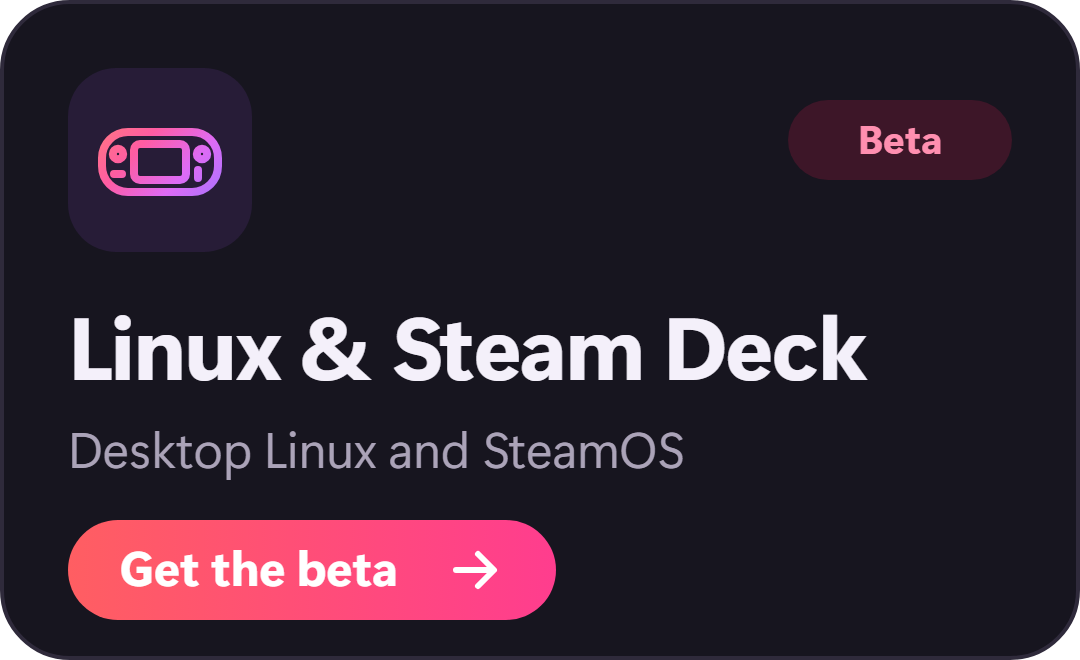
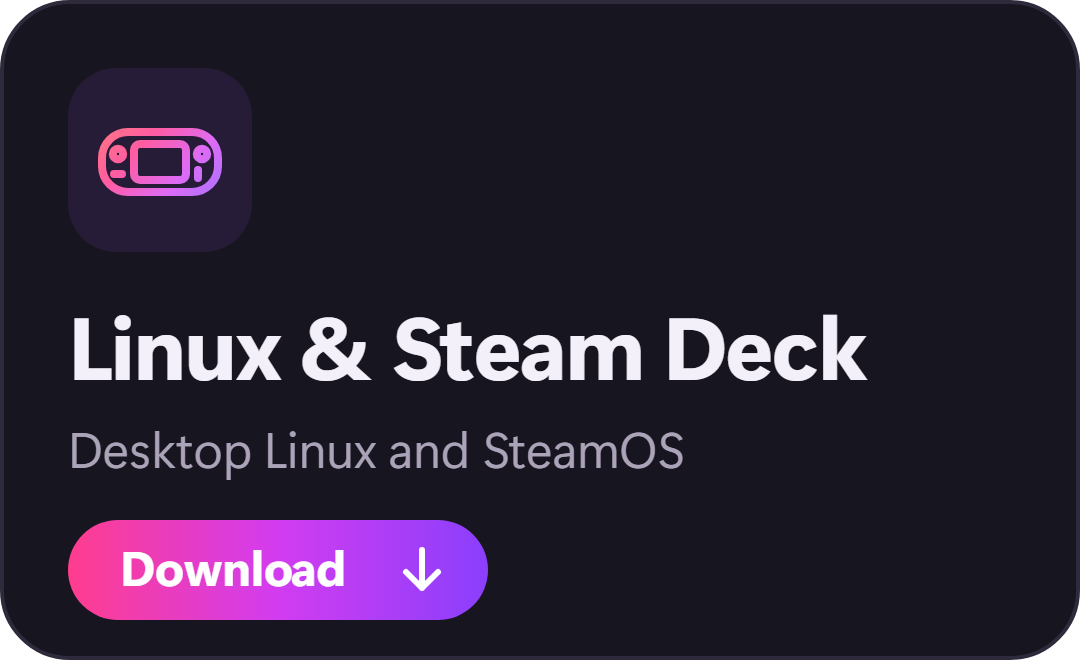
Release pages: 1.4.0's Linux card is a Download card; the beta pages keep the beta card
get-linux-{light,dark}.png are now the stable card (Download, no Beta badge), rendered from docs/assets/get-linux-*.svg;
the old beta cards are get-linux-beta-*.png, used by the linux-beta pages. release_pages.py picks the card and its alt
text by tag ("Download for Linux and the Steam Deck" from 1.4.0). make_readme_art.py draws Linux as a stable card too,
so a rerun keeps the README's hand-updated Linux card (its 30 SVGs come out byte-identical).

Changed region(s): [[0.0611, 0.7879, 0.5194, 0.9394], [0.7333, 0.1515, 0.9472, 0.2727]]

diff --git a/tools/release_pages.py b/tools/release_pages.py
@@ -138,14 +138,15 @@ def assets_of(body):
 def downloads(tag, names):
     cards, extra = [], []
     order = lambda n: 0 if 'Windows' in n else 1 if 'Mac' in n else 2 if n.endswith('.AppImage') else 3   # Windows, Mac, then Linux's AppImage first
+    lx, lalt = ('linux-beta', 'Get the Linux and Steam Deck beta') if 'linux-beta' in tag else ('linux', 'Download for Linux and the Steam Deck')
     for n in sorted(names, key=order):
         url = f'{REPO}/releases/download/{tag}/{n}'
         if n == 'Pokopia-Native-for-Windows.zip': cards.append(card('windows', url, 'Download for Windows'))
         elif n == 'Pokopia-Native-for-Mac.zip': cards.append(card('mac', url, 'Download for Mac and iPhone'))
-        elif n.endswith('.AppImage') and not any('get-linux' in c for c in cards): cards.append(card('linux', url, 'Get the Linux and Steam Deck beta (AppImage)'))
+        elif n.endswith('.AppImage') and not any('get-linux' in c for c in cards): cards.append(card(lx, url, f'{lalt} (AppImage)'))
         elif 'Linux' in n and n.endswith('.zip'):
             if any('get-linux' in c for c in cards): extra.append(f"Prefer a terminal, or the AppImage won't start? Use [`{n}`]({url}) instead.")
-            else: cards.append(card('linux', url, 'Get the Linux and Steam Deck beta'))
+            else: cards.append(card(lx, url, lalt))
         elif 'Android' in n and n.endswith('.zip'): cards.append(card('android', url, 'Get the Android beta'))
         elif n.endswith('.apk'): extra.append(f'**Check your phone first:** the [device test]({url}) (`{n}`) says in seconds whether it can run the game.')
         else: extra.append(f'Also here: [`{n}`]({url})')

diff --git a/tools/make_readme_art.py b/tools/make_readme_art.py
@@ -119,7 +119,7 @@ def hero_phone(m):
 CARDS = {
     'windows': ('pc', 'Windows', 'Windows 10 and 11, 64-bit', False),
     'mac': ('mac', 'Mac &amp; iPhone', 'Apple silicon, plus the iPhone app', False),
-    'linux': ('deck', 'Linux &amp; Steam Deck', 'Desktop Linux and SteamOS', True),
+    'linux': ('deck', 'Linux &amp; Steam Deck', 'Desktop Linux and SteamOS', False),   # out of beta from 1.4.0
     'android': ('droid', 'Android', 'Phones and handhelds, made on a PC', True),
 }
 

diff --git a/docs/releases/v1.4.0.md b/docs/releases/v1.4.0.md
@@ -4,7 +4,7 @@
   <a href="https://github.com/xFractals/pokopia-native/releases/download/v1.4.0/Pokopia-Native-for-Windows.zip"><picture><source media="(prefers-color-scheme: dark)" srcset="https://raw.githubusercontent.com/xFractals/pokopia-native/main/docs/assets/release/get-windows-dark.png"><img src="https://raw.githubusercontent.com/xFractals/pokopia-native/main/docs/assets/release/get-windows-light.png" width="404" alt="Download for Windows"></picture></a>
   <a href="https://github.com/xFractals/pokopia-native/releases/download/v1.4.0/Pokopia-Native-for-Mac.zip"><picture><source media="(prefers-color-scheme: dark)" srcset="https://raw.githubusercontent.com/xFractals/pokopia-native/main/docs/assets/release/get-mac-dark.png"><img src="https://raw.githubusercontent.com/xFractals/pokopia-native/main/docs/assets/release/get-mac-light.png" width="404" alt="Download for Mac and iPhone"></picture></a>
   <br>
-  <a href="https://github.com/xFractals/pokopia-native/releases/download/v1.4.0/Pokopia-Native-Builder-1.4.0-x86_64.AppImage"><picture><source media="(prefers-color-scheme: dark)" srcset="https://raw.githubusercontent.com/xFractals/pokopia-native/main/docs/assets/release/get-linux-dark.png"><img src="https://raw.githubusercontent.com/xFractals/pokopia-native/main/docs/assets/release/get-linux-light.png" width="404" alt="Get the Linux and Steam Deck beta (AppImage)"></picture></a>
+  <a href="https://github.com/xFractals/pokopia-native/releases/download/v1.4.0/Pokopia-Native-Builder-1.4.0-x86_64.AppImage"><picture><source media="(prefers-color-scheme: dark)" srcset="https://raw.githubusercontent.com/xFractals/pokopia-native/main/docs/assets/release/get-linux-dark.png"><img src="https://raw.githubusercontent.com/xFractals/pokopia-native/main/docs/assets/release/get-linux-light.png" width="404" alt="Download for Linux and the Steam Deck (AppImage)"></picture></a>
 </p>
 
 Prefer a terminal, or the AppImage won't start? Use [`Pokopia-Native-for-Linux.zip`](https://github.com/xFractals/pokopia-native/releases/download/v1.4.0/Pokopia-Native-for-Linux.zip) instead.

diff --git a/docs/releases/v1.3.3-linux-beta.5.md b/docs/releases/v1.3.3-linux-beta.5.md
@@ -1,7 +1,7 @@
 **No more sparkles on 16:10 screens, a steadier frame rate on integrated graphics, a builder that looks right, and a report tool that finds your build by itself.**
 
 <p align="center">
-  <a href="https://github.com/xFractals/pokopia-native/releases/download/v1.3.3-linux-beta.5/Pokopia-Native-Builder-1.3.3-beta.5-x86_64.AppImage"><picture><source media="(prefers-color-scheme: dark)" srcset="https://raw.githubusercontent.com/xFractals/pokopia-native/main/docs/assets/release/get-linux-dark.png"><img src="https://raw.githubusercontent.com/xFractals/pokopia-native/main/docs/assets/release/get-linux-light.png" width="404" alt="Get the Linux and Steam Deck beta (AppImage)"></picture></a>
+  <a href="https://github.com/xFractals/pokopia-native/releases/download/v1.3.3-linux-beta.5/Pokopia-Native-Builder-1.3.3-beta.5-x86_64.AppImage"><picture><source media="(prefers-color-scheme: dark)" srcset="https://raw.githubusercontent.com/xFractals/pokopia-native/main/docs/assets/release/get-linux-beta-dark.png"><img src="https://raw.githubusercontent.com/xFractals/pokopia-native/main/docs/assets/release/get-linux-beta-light.png" width="404" alt="Get the Linux and Steam Deck beta (AppImage)"></picture></a>
 </p>
 
 Prefer a terminal, or the AppImage won't start? Use [`Pokopia-Native-for-Linux-beta.zip`](https://github.com/xFractals/pokopia-native/releases/download/v1.3.3-linux-beta.5/Pokopia-Native-for-Linux-beta.zip) instead.

diff --git a/docs/releases/v1.2.6-linux-beta.md b/docs/releases/v1.2.6-linux-beta.md
@@ -1,7 +1,7 @@
 **Pokopia Native on Linux and the Steam Deck, as an open beta.**
 
 <p align="center">
-  <a href="https://github.com/xFractals/pokopia-native/releases/download/v1.2.6-linux-beta/Pokopia-Native-Builder-1.2.6-beta-x86_64.AppImage"><picture><source media="(prefers-color-scheme: dark)" srcset="https://raw.githubusercontent.com/xFractals/pokopia-native/main/docs/assets/release/get-linux-dark.png"><img src="https://raw.githubusercontent.com/xFractals/pokopia-native/main/docs/assets/release/get-linux-light.png" width="404" alt="Get the Linux and Steam Deck beta (AppImage)"></picture></a>
+  <a href="https://github.com/xFractals/pokopia-native/releases/download/v1.2.6-linux-beta/Pokopia-Native-Builder-1.2.6-beta-x86_64.AppImage"><picture><source media="(prefers-color-scheme: dark)" srcset="https://raw.githubusercontent.com/xFractals/pokopia-native/main/docs/assets/release/get-linux-beta-dark.png"><img src="https://raw.githubusercontent.com/xFractals/pokopia-native/main/docs/assets/release/get-linux-beta-light.png" width="404" alt="Get the Linux and Steam Deck beta (AppImage)"></picture></a>
 </p>
 
 Prefer a terminal, or the AppImage won't start? Use [`Pokopia-Native-for-Linux-beta.zip`](https://github.com/xFractals/pokopia-native/releases/download/v1.2.6-linux-beta/Pokopia-Native-for-Linux-beta.zip) instead.

diff --git a/docs/releases/v1.3.0-linux-beta.2.md b/docs/releases/v1.3.0-linux-beta.2.md
@@ -1,7 +1,7 @@
 **Starts on the Steam Deck, Fedora, Arch and more.**
 
 <p align="center">
-  <a href="https://github.com/xFractals/pokopia-native/releases/download/v1.3.0-linux-beta.2/Pokopia-Native-Builder-1.3.0-beta.2-x86_64.AppImage"><picture><source media="(prefers-color-scheme: dark)" srcset="https://raw.githubusercontent.com/xFractals/pokopia-native/main/docs/assets/release/get-linux-dark.png"><img src="https://raw.githubusercontent.com/xFractals/pokopia-native/main/docs/assets/release/get-linux-light.png" width="404" alt="Get the Linux and Steam Deck beta (AppImage)"></picture></a>
+  <a href="https://github.com/xFractals/pokopia-native/releases/download/v1.3.0-linux-beta.2/Pokopia-Native-Builder-1.3.0-beta.2-x86_64.AppImage"><picture><source media="(prefers-color-scheme: dark)" srcset="https://raw.githubusercontent.com/xFractals/pokopia-native/main/docs/assets/release/get-linux-beta-dark.png"><img src="https://raw.githubusercontent.com/xFractals/pokopia-native/main/docs/assets/release/get-linux-beta-light.png" width="404" alt="Get the Linux and Steam Deck beta (AppImage)"></picture></a>
 </p>
 
 Prefer a terminal, or the AppImage won't start? Use [`Pokopia-Native-for-Linux-beta.zip`](https://github.com/xFractals/pokopia-native/releases/download/v1.3.0-linux-beta.2/Pokopia-Native-for-Linux-beta.zip) instead.

diff --git a/docs/releases/v1.3.0-linux-beta.md b/docs/releases/v1.3.0-linux-beta.md
@@ -1,7 +1,7 @@
 **Higher resolution and settings in the game, on Linux.**
 
 <p align="center">
-  <a href="https://github.com/xFractals/pokopia-native/releases/download/v1.3.0-linux-beta/Pokopia-Native-Builder-1.3.0-beta-x86_64.AppImage"><picture><source media="(prefers-color-scheme: dark)" srcset="https://raw.githubusercontent.com/xFractals/pokopia-native/main/docs/assets/release/get-linux-dark.png"><img src="https://raw.githubusercontent.com/xFractals/pokopia-native/main/docs/assets/release/get-linux-light.png" width="404" alt="Get the Linux and Steam Deck beta (AppImage)"></picture></a>
+  <a href="https://github.com/xFractals/pokopia-native/releases/download/v1.3.0-linux-beta/Pokopia-Native-Builder-1.3.0-beta-x86_64.AppImage"><picture><source media="(prefers-color-scheme: dark)" srcset="https://raw.githubusercontent.com/xFractals/pokopia-native/main/docs/assets/release/get-linux-beta-dark.png"><img src="https://raw.githubusercontent.com/xFractals/pokopia-native/main/docs/assets/release/get-linux-beta-light.png" width="404" alt="Get the Linux and Steam Deck beta (AppImage)"></picture></a>
 </p>
 
 Prefer a terminal, or the AppImage won't start? Use [`Pokopia-Native-for-Linux-beta.zip`](https://github.com/xFractals/pokopia-native/releases/download/v1.3.0-linux-beta/Pokopia-Native-for-Linux-beta.zip) instead.

diff --git a/docs/releases/v1.3.3-linux-beta.4.md b/docs/releases/v1.3.3-linux-beta.4.md
@@ -1,7 +1,7 @@
 **Version 1.3.3 on Linux and the Steam Deck.**
 
 <p align="center">
-  <a href="https://github.com/xFractals/pokopia-native/releases/download/v1.3.3-linux-beta.4/Pokopia-Native-Builder-1.3.3-beta.4-x86_64.AppImage"><picture><source media="(prefers-color-scheme: dark)" srcset="https://raw.githubusercontent.com/xFractals/pokopia-native/main/docs/assets/release/get-linux-dark.png"><img src="https://raw.githubusercontent.com/xFractals/pokopia-native/main/docs/assets/release/get-linux-light.png" width="404" alt="Get the Linux and Steam Deck beta (AppImage)"></picture></a>
+  <a href="https://github.com/xFractals/pokopia-native/releases/download/v1.3.3-linux-beta.4/Pokopia-Native-Builder-1.3.3-beta.4-x86_64.AppImage"><picture><source media="(prefers-color-scheme: dark)" srcset="https://raw.githubusercontent.com/xFractals/pokopia-native/main/docs/assets/release/get-linux-beta-dark.png"><img src="https://raw.githubusercontent.com/xFractals/pokopia-native/main/docs/assets/release/get-linux-beta-light.png" width="404" alt="Get the Linux and Steam Deck beta (AppImage)"></picture></a>
 </p>
 
 Prefer a terminal, or the AppImage won't start? Use [`Pokopia-Native-for-Linux-beta.zip`](https://github.com/xFractals/pokopia-native/releases/download/v1.3.3-linux-beta.4/Pokopia-Native-for-Linux-beta.zip) instead.

diff --git a/docs/releases/v1.3.0-linux-beta.3.md b/docs/releases/v1.3.0-linux-beta.3.md
@@ -1,7 +1,7 @@
 **Crackle-free sound on PipeWire.**
 
 <p align="center">
-  <a href="https://github.com/xFractals/pokopia-native/releases/download/v1.3.0-linux-beta.3/Pokopia-Native-Builder-1.3.0-beta.3-x86_64.AppImage"><picture><source media="(prefers-color-scheme: dark)" srcset="https://raw.githubusercontent.com/xFractals/pokopia-native/main/docs/assets/release/get-linux-dark.png"><img src="https://raw.githubusercontent.com/xFractals/pokopia-native/main/docs/assets/release/get-linux-light.png" width="404" alt="Get the Linux and Steam Deck beta (AppImage)"></picture></a>
+  <a href="https://github.com/xFractals/pokopia-native/releases/download/v1.3.0-linux-beta.3/Pokopia-Native-Builder-1.3.0-beta.3-x86_64.AppImage"><picture><source media="(prefers-color-scheme: dark)" srcset="https://raw.githubusercontent.com/xFractals/pokopia-native/main/docs/assets/release/get-linux-beta-dark.png"><img src="https://raw.githubusercontent.com/xFractals/pokopia-native/main/docs/assets/release/get-linux-beta-light.png" width="404" alt="Get the Linux and Steam Deck beta (AppImage)"></picture></a>
 </p>
 
 Prefer a terminal, or the AppImage won't start? Use [`Pokopia-Native-for-Linux-beta.zip`](https://github.com/xFractals/pokopia-native/releases/download/v1.3.0-linux-beta.3/Pokopia-Native-for-Linux-beta.zip) instead.
